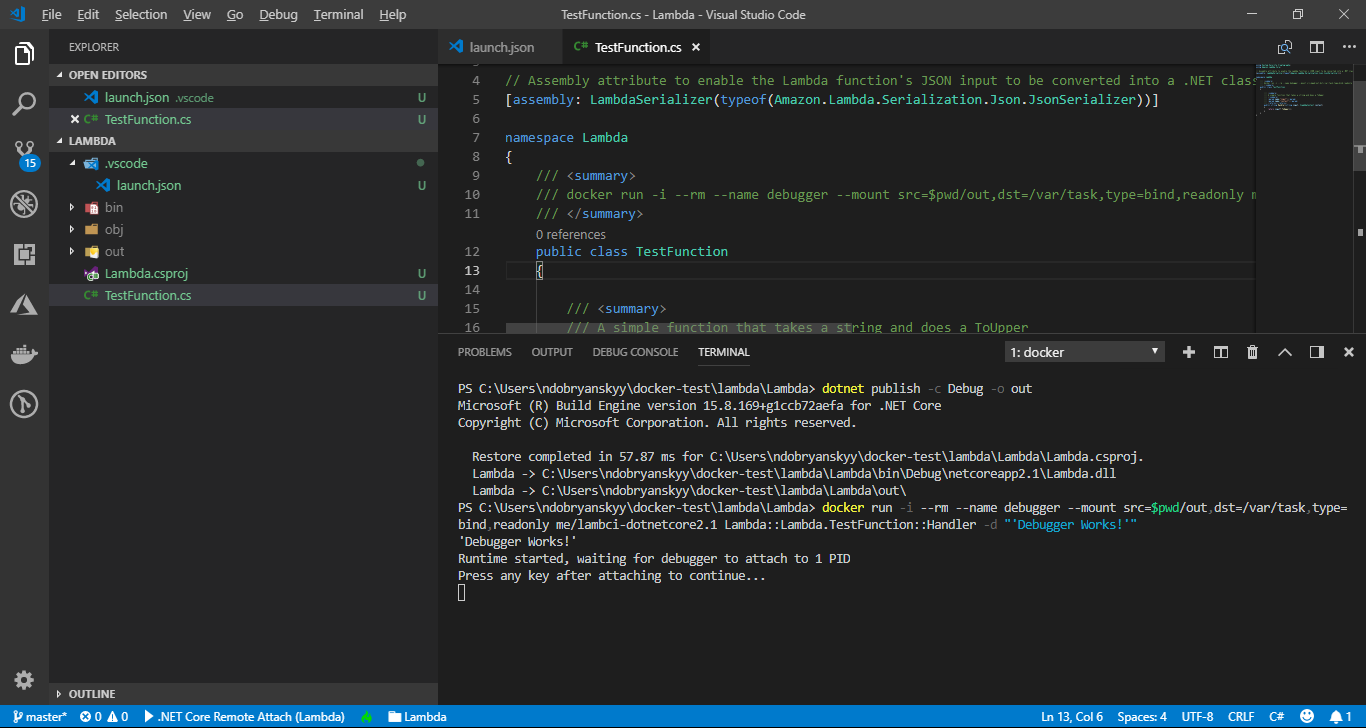
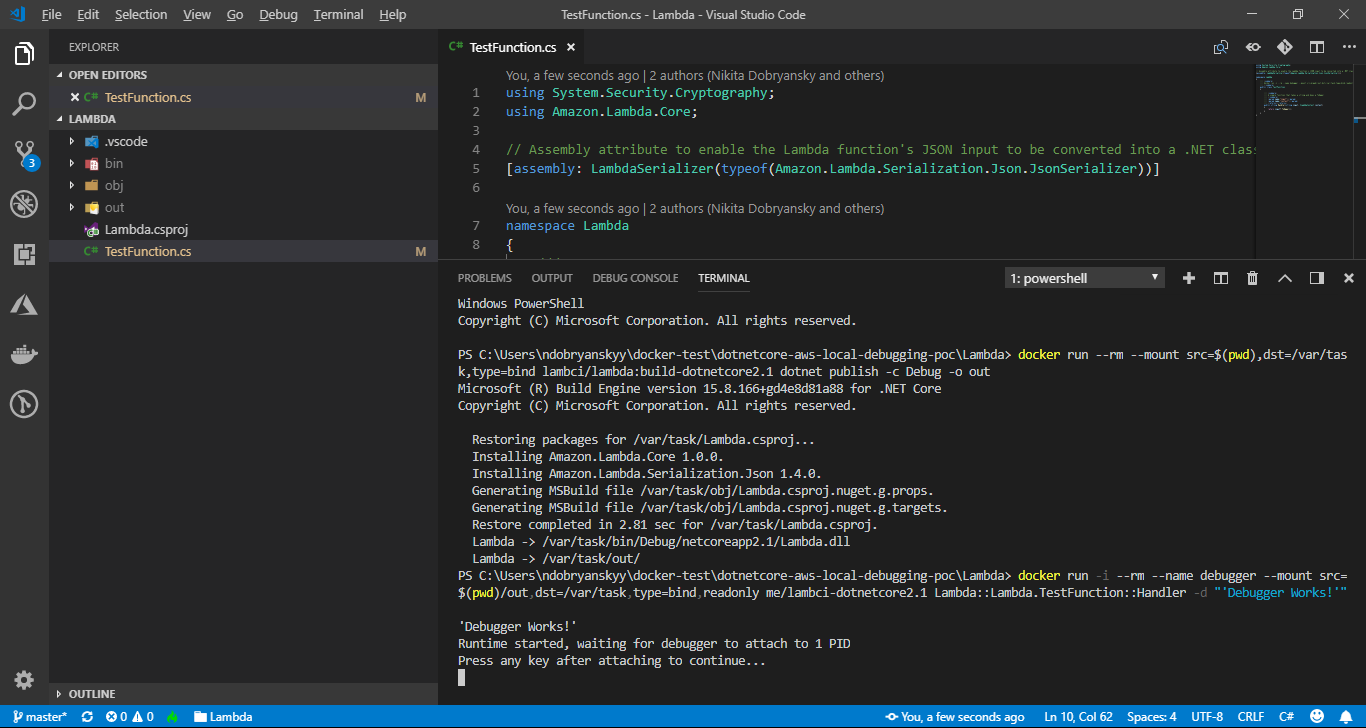
Sanitized README.md

diff --git a/Lambda/TestFunction.cs b/Lambda/TestFunction.cs
@@ -7,7 +7,7 @@ using Amazon.Lambda.Core;
 namespace Lambda
 {
     /// <summary>
-    /// docker run -i --rm --name debugger --mount src=$pwd/out,dst=/var/task,type=bind,readonly me/lambci-dotnetcore2.1 Lambda::Lambda.TestFunction::Handler -d "'Debugger Works!'"
+    /// docker run -i --rm --name debugger --mount src=$(pwd)/out,dst=/var/task,type=bind,readonly me/lambci-dotnetcore2.1 Lambda::Lambda.TestFunction::Handler -d "'Debugger Works!'"
     /// </summary>
     public class TestFunction
     {

diff --git a/AWSDocker/MockBootstraps/Program.cs b/AWSDocker/MockBootstraps/Program.cs
@@ -43,8 +43,6 @@ namespace MockLambdaRuntime
             var handler = GetFunctionHandler(positionalArgs);
             var body = GetEventBody(positionalArgs);
 
-            Console.WriteLine(body);
-
             var lambdaContext = new MockLambdaContext(handler, body);
 
             var userCodeLoader = new UserCodeLoader(handler, InternalLogger.NO_OP_LOGGER);

diff --git a/README.md b/README.md
@@ -1,13 +1,15 @@
 # Debugging .NET Core AWS Lambda function in VS Code
 
-## Run it first, to see how it works
+## Setup and prerequisites
 
----
-### Setup
+### Step 0 - setup your machine
+You will need [Docker](https://www.docker.com/) 🐋 installed to run this sample.
 
-Build our own version of [AWS dotnetcore2.1 Lambda environment](https://github.com/lambci/docker-lambda/blob/master/dotnetcore2.1/run/Dockerfile)
+<br/>
 
-From repository root run these commands first
+### Step 1 - build your [AWS dotnetcore2.1 Lambda environment](https://github.com/lambci/docker-lambda/blob/master/dotnetcore2.1/run/Dockerfile)
+
+From repository root run these commands
 
 ```sh
 cd AWSDocker
@@ -16,24 +18,24 @@ cd ../Lambda
 # You need VS Code available from PATH for that - this  will open IDE
 code .
 ```
+<br/>
+
+### Step 2 - Invoke the function
 
 As you've opened up the Visual Studio Code, either from above instructions or UI (`/Lambda` folder) go ahead and pop open integrated terminal of IDE.
 
 ![Integrated Terminal](/docs/screenshots/integrated-terminal.png?raw=true "Integrated Terminal")
 
-From there we will simulate the SAM CLI and run the container with AWS Lambda environment and execute our function
-
-### Run from integrated terminal
+From this terminal we will simulate the SAM CLI and run the container with AWS Lambda environment to execute our function.
 ```sh
-
 # Build 
-docker run --rm --mount src=$pwd,dst=/var/task,type=bind lambci/lambda:build-dotnetcore2.1 dotnet publish -c Debug -o out
+docker run --rm --mount src=$(pwd),dst=/var/task,type=bind lambci/lambda:build-dotnetcore2.1 dotnet publish -c Debug -o out
 
 # Also you can opt out to build lambda locally if you have dotnet sdk installed on you machine
 # dotnet publish -c Debug -o out
 
 # Invoke AWS Lambda
-docker run -i --rm --name debugger --mount src=$pwd/out,dst=/var/task,type=bind,readonly me/lambci-dotnetcore2.1 Lambda::Lambda.TestFunction::Handler -d "'Debugger Works!'"
+docker run -i --rm --name debugger --mount src=$(pwd)/out,dst=/var/task,type=bind,readonly me/lambci-dotnetcore2.1 Lambda::Lambda.TestFunction::Handler -d "'Debugger Works!'"
 ```
 
 ![Function invocation](/docs/screenshots/function-invocation.png?raw=true "Function invocation")
@@ -41,11 +43,13 @@ docker run -i --rm --name debugger --mount src=$pwd/out,dst=/var/task,type=bind,
 After doing that you'll see the output of the runtime: 
 `Press any key after attaching to continue...` we will get  back here later
 
+<br/>
+
+### Step 3 - Attaching
+
 This means,that we are _almost there_. Now we need to __attach__ to the process inside the running Docker container. Luckily this is very easy - just go to the debugging section of  Visual Studio code and choose __.NET Core Remote Attach__  configuration there. Put some breakpoint in the `TestFunction.cs` `Handler` method and start debugging.
 
-![Start debugger](/docs/screenshots/start-debugger.png?raw=true "Start debugger")
-
-At this point VS Code should go into the debug mode turning orange and all. Now get back to the integrated terminal and finally press any key to start actual Lambda invocation. At this point you'll see, that __breakpoint is actually hit__, yay!
+At this point VS Code should go into the debug mode turning orange and all. Now get back to the integrated terminal and finally press any key to start actual Lambda invocation. At this point you'll see, that __breakpoint is actually hit__, yay 🎉!
 
 ![Debugger works!](/docs/screenshots/debugger-works.gif?raw=true "Debugger works!")
 
